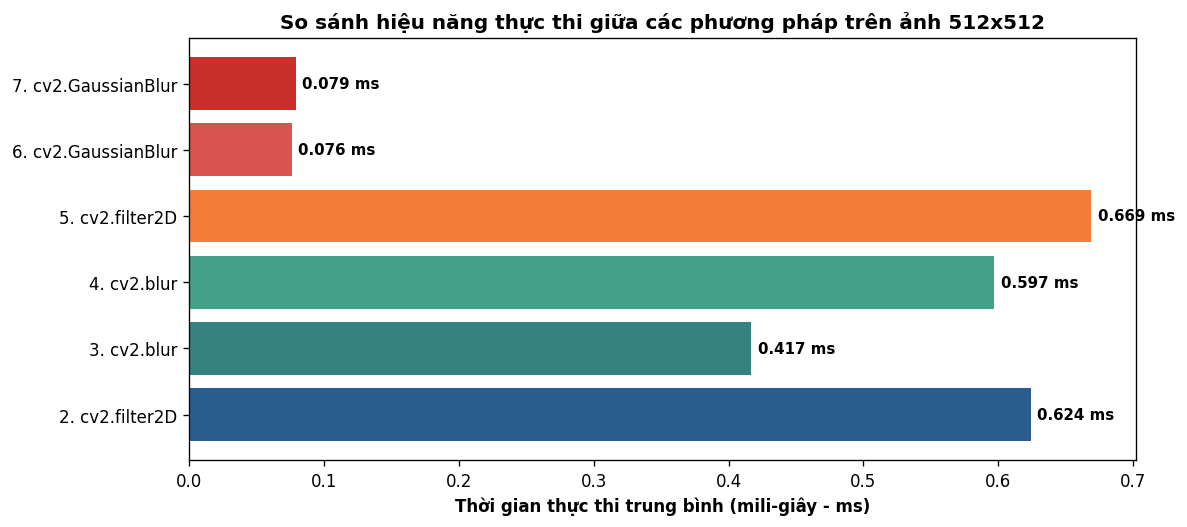
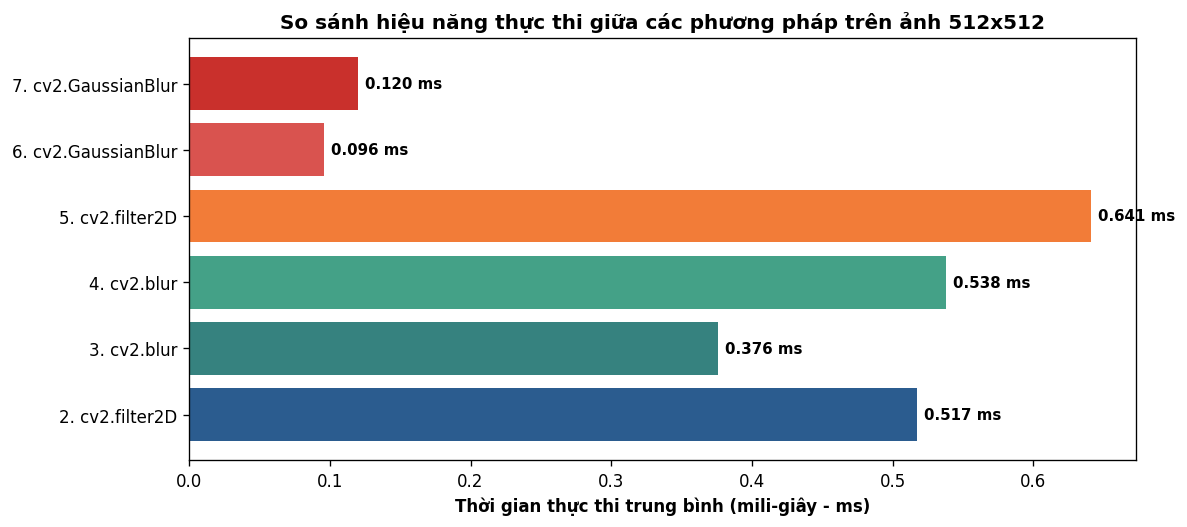
fix(lab2): sua loi dinh vi duong dan linh hoat trong notebook va bao ve kich thuoc anh cho ssim

diff --git a/lab_2/src/blur_filters.py b/lab_2/src/blur_filters.py
@@ -170,7 +170,11 @@ def create_gaussian_kernel_1d(ksize: int, sigma: float = 0.0) -> np.ndarray:
     Returns:
         np.ndarray: Kernel 1 chiều float32 được chuẩn hóa có tổng bằng 1.0.
     """
-    kw, _ = validate_ksize((ksize, ksize))
+    if isinstance(ksize, int):
+        kw, _ = validate_ksize((ksize, ksize))
+    else:
+        kw, _ = validate_ksize(ksize)
+
     if sigma <= 0:
         sigma = 0.3 * ((kw - 1) * 0.5 - 1.0) + 0.8
 
@@ -478,6 +482,12 @@ def calculate_ssim(
     else:
         i1 = img1.astype(np.float64)
         i2 = img2.astype(np.float64)
+
+    min_dim = min(i1.shape[0], i1.shape[1])
+    if win_size > min_dim:
+        win_size = min_dim if min_dim % 2 == 1 else max(1, min_dim - 1)
+    if win_size <= 1:
+        return 1.0 if np.array_equal(i1, i2) else 0.0
 
     L = 255.0
     C1 = (k1 * L) ** 2
